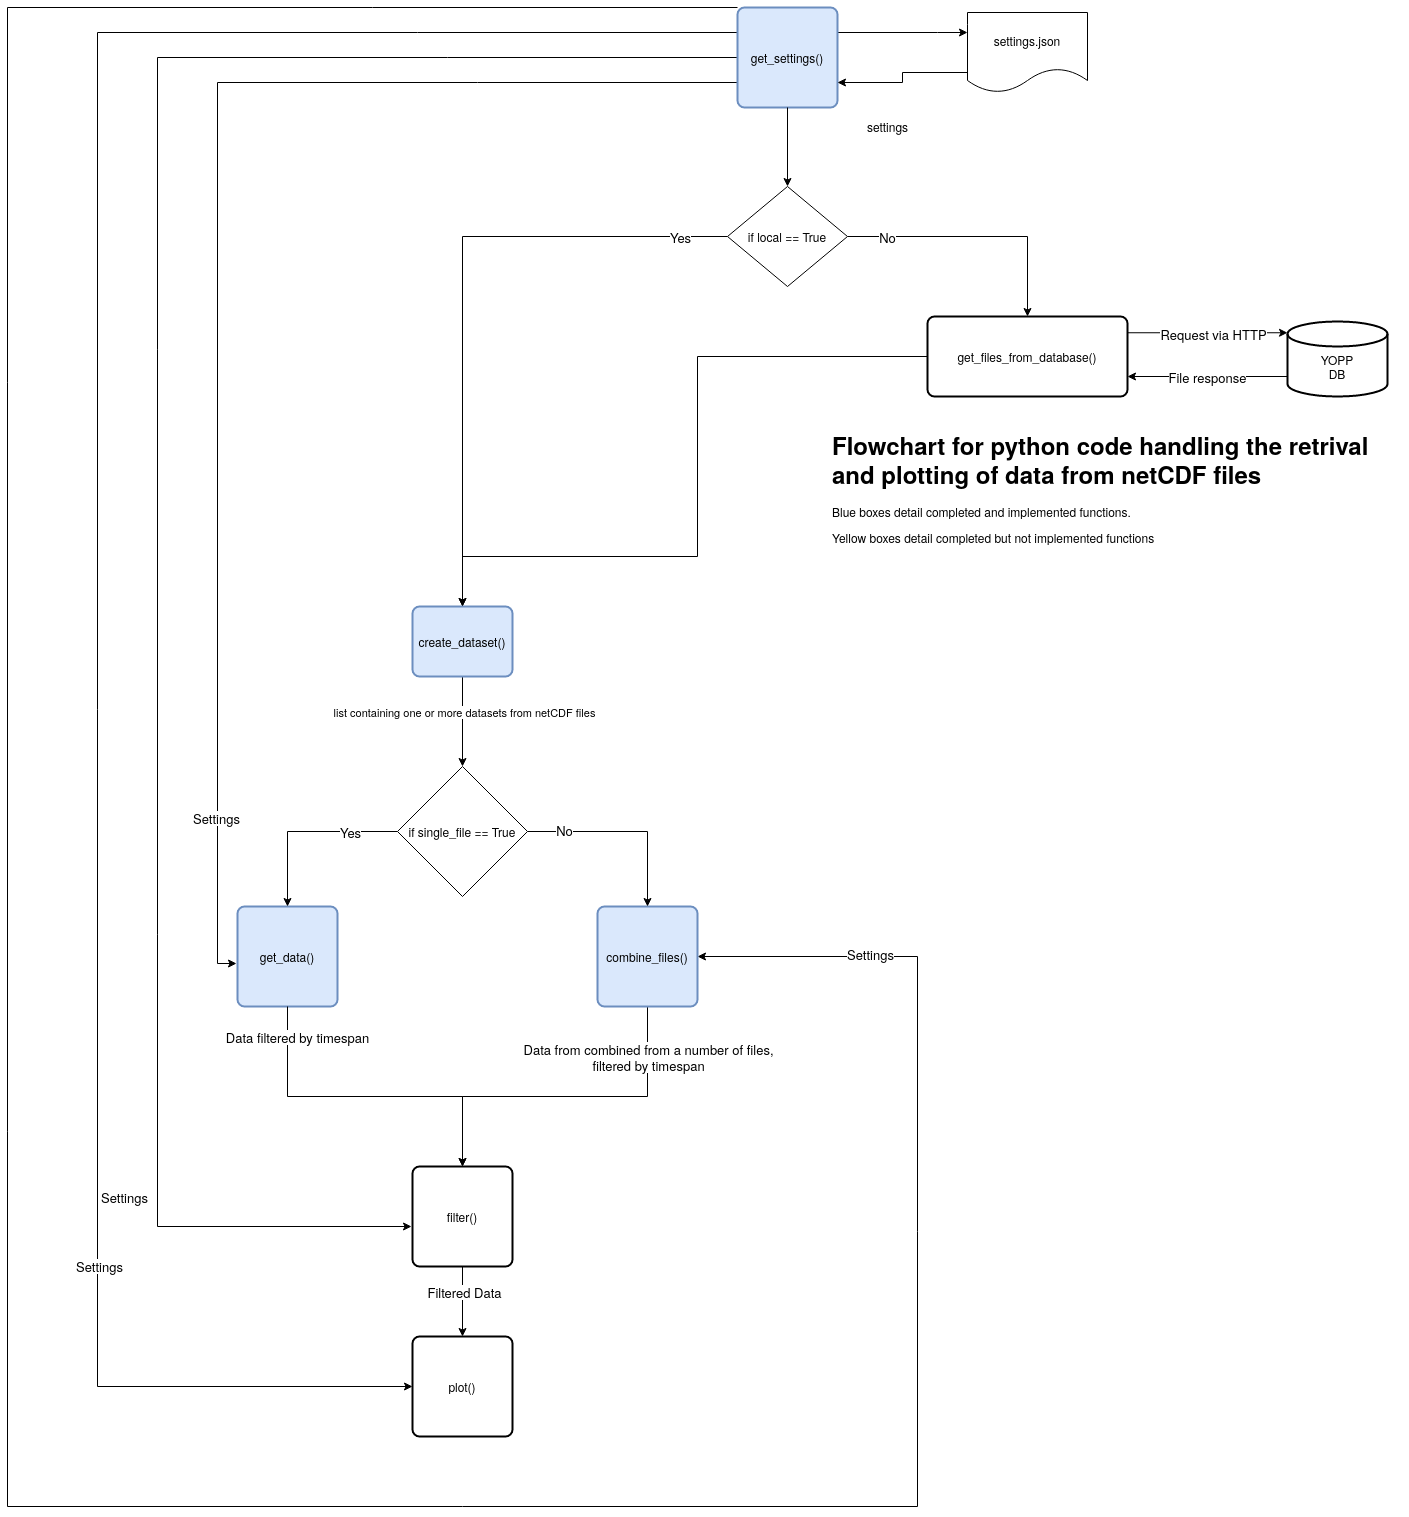
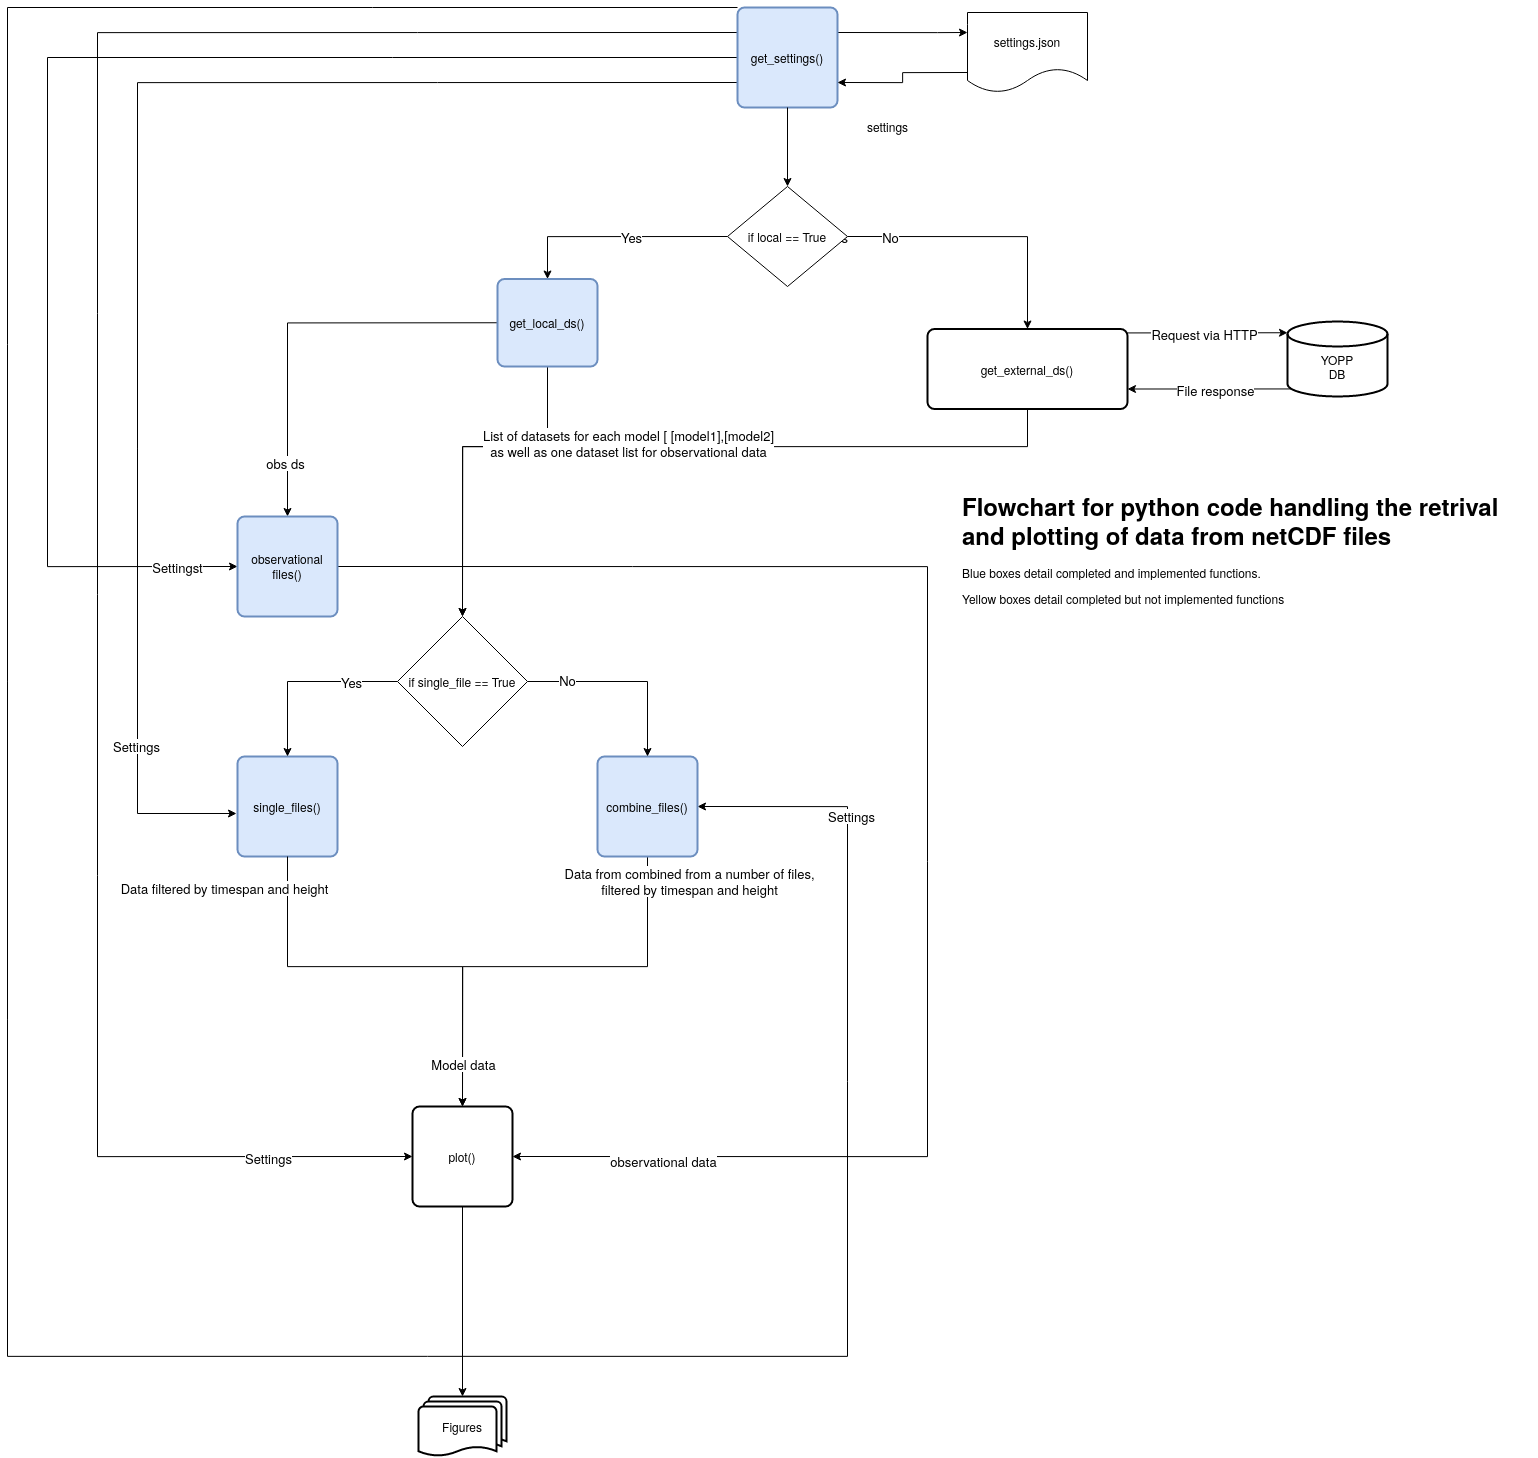
Fixed code comments, fixed so single day could be read, updated flowchart

diff --git a/Code/main.py b/Code/main.py
@@ -2,25 +2,28 @@
 #this is the main script for the reading and plotting of model and 
 #observational data from netCDF files for the evaluation of model quality.
 
-from get_ds import *
+#functions used in this code are imported from the following files
+from get_local_ds import *
 from read_settings import *
 from get_var_sets import *
 from plot import *
-import netCDF4 as nc
 
-fn = "/home/jojo161/MISU/job_summer_2020/settings.json"
+
+fn = "/home/jojo161/MISU/job_summer_2020/Code/settings.json"
 
 settings_list = load_settings(fn)
 for setting in settings_list:
     if setting["local"] == "True":
-        mod_ds, obs_ds = get_ds(setting["start_date"],setting["end_date"],setting["path_to_db"],setting["site"],setting["model_types"],setting["forcast_time"])
+        mod_ds, obs_ds = get_local_ds(setting["start_date"],setting["end_date"],setting["path_to_db"],setting["site"],setting["model_types"],setting["forcast_time"])
+        filtered_obs_var = observation_files(obs_ds,setting["start_date"],setting["end_date"],setting["height_high"],setting["height_low"])
         filtered_mod_var = []
         for mod in mod_ds:
             if setting["single"] == "True":
                 filtered_mod_var.append(single_files(mod,setting["start_date"],setting["time_wanted"],setting["variables"],setting["height_high"],setting["height_low"]))
             else:
                 filtered_mod_var.append(combine_files(mod_ds,setting["variables"],setting["start_date"],setting["time_wanted"],setting["height_high"],setting["height_low"]))
-        filtered_obs_var = observation_files(obs_ds,setting["start_date"],setting["end_date"],setting["height_high"],setting["height_low"])
+        
+        
     
     plot(filtered_mod_var[0],filtered_obs_var[0],setting)
 

diff --git a/Code/get_local_ds.py b/Code/get_local_ds.py
@@ -8,7 +8,7 @@ import netCDF4 as nc
 # it produces a list of datasets lists for each modeltype 
 # and one for the observation data
 
-def get_ds(start_date,end_date,path_to_db,site,model_types,forcast_time):
+def get_local_ds(start_date,end_date,path_to_db,site,model_types,forcast_time):
 
     #initialization of needed variables and two empty lists for the results
     start_date = dt.datetime.strptime(start_date,'%Y-%m-%d %H:%M:%S')
@@ -47,8 +47,15 @@ def get_ds(start_date,end_date,path_to_db,site,model_types,forcast_time):
                 index.append(file_lst.index(fname))
 
         #retreieve relevant files, add pathname to them and create datasets
-        files = file_lst[index[0]:index[1]+1]
-        files_path = [dir_path+"/"+name for name in files]
+        if len(index) == 1:
+            files = file_lst[index[0]]
+            files_path = [dir_path+"/"+files]
+        else:
+            files = file_lst[index[0]:index[1]+1]
+            files_path = [dir_path+"/"+name for name in files]
+
+        
+        
         model_ds.append([nc.Dataset(f_path) for f_path in files_path])
 
     #two lists of datasets are returned, one for model data one for observation data   
